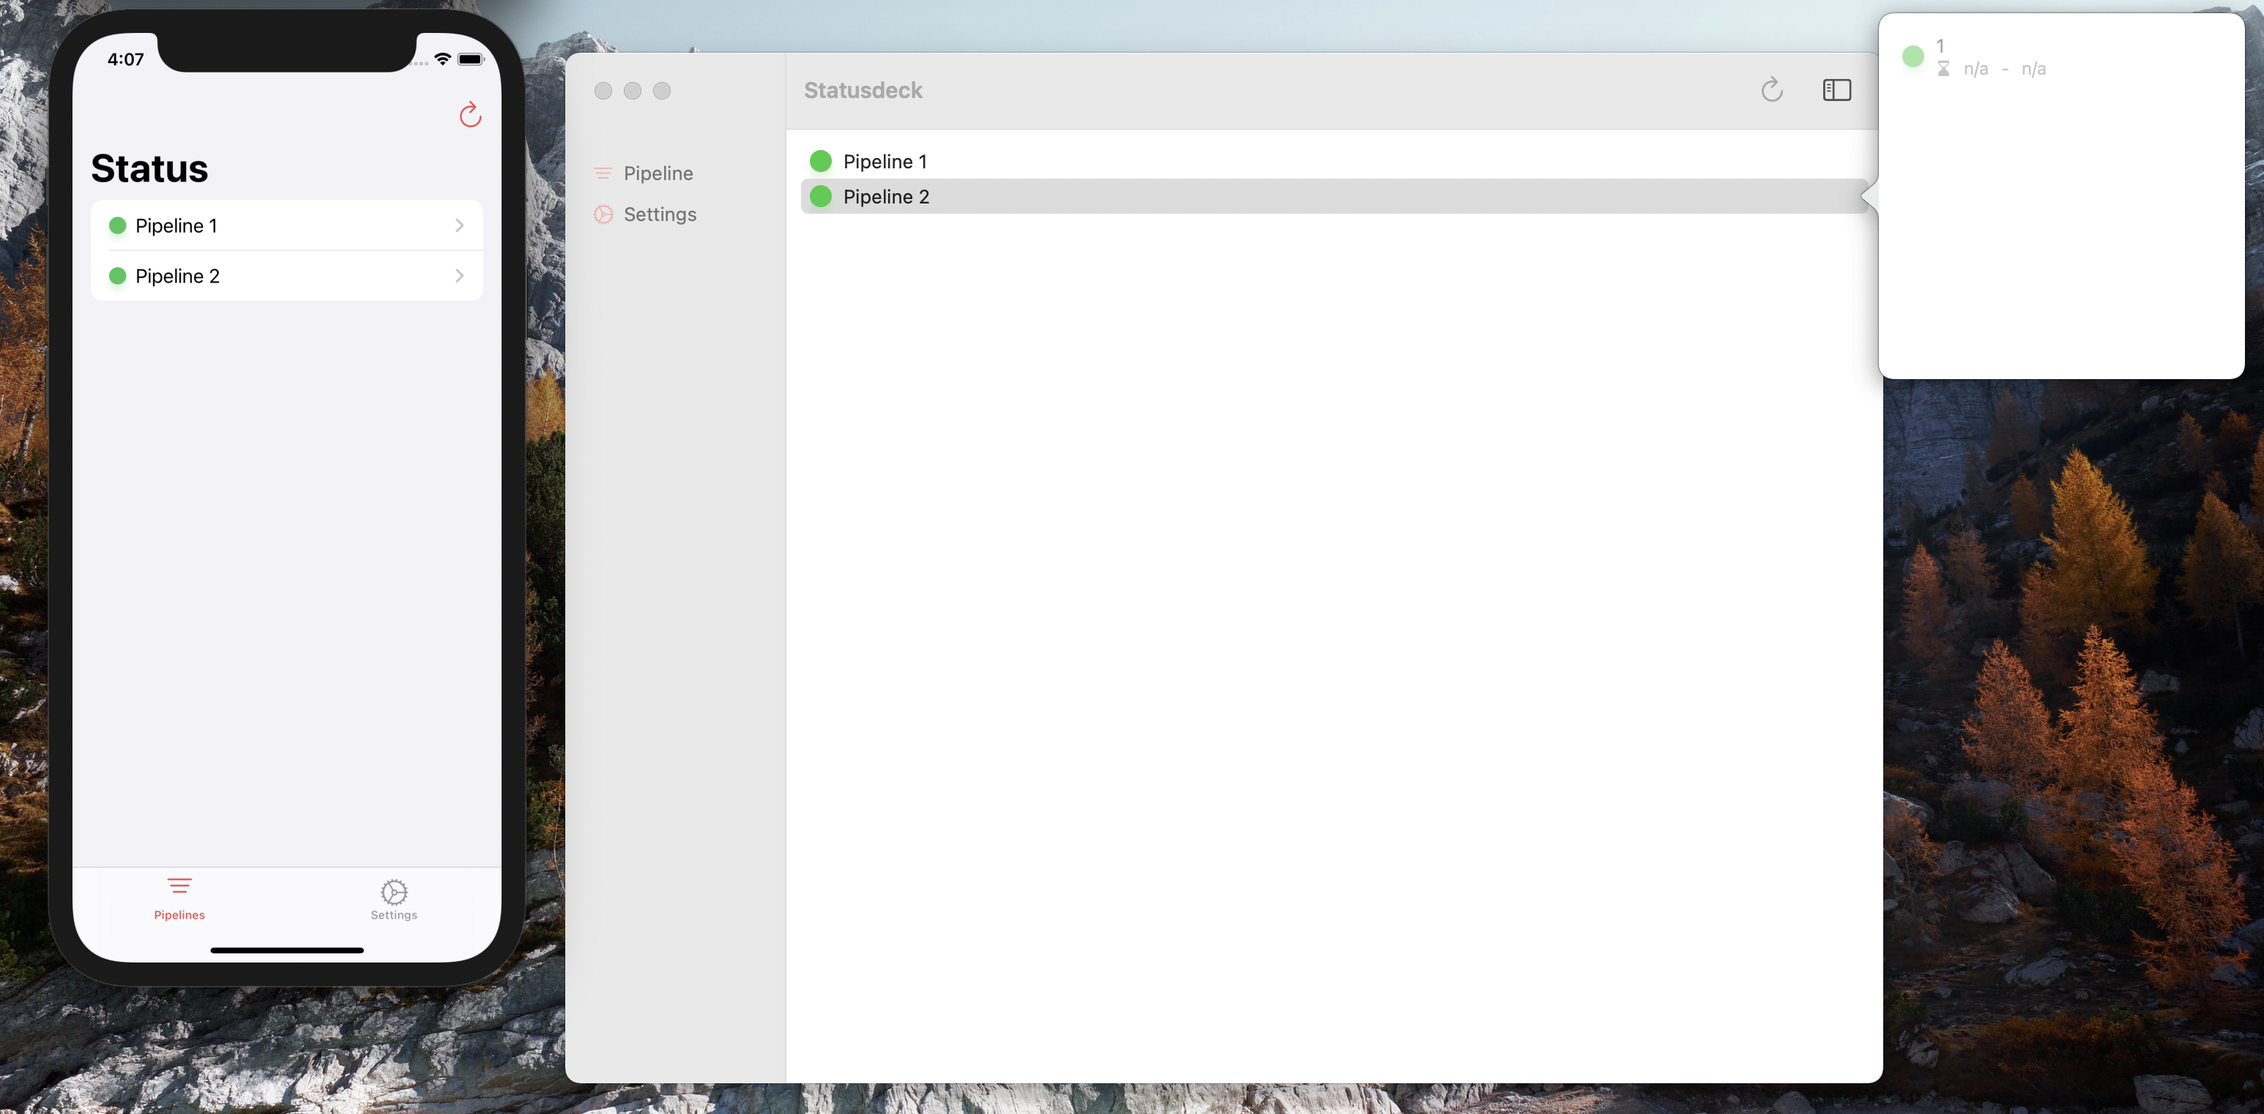
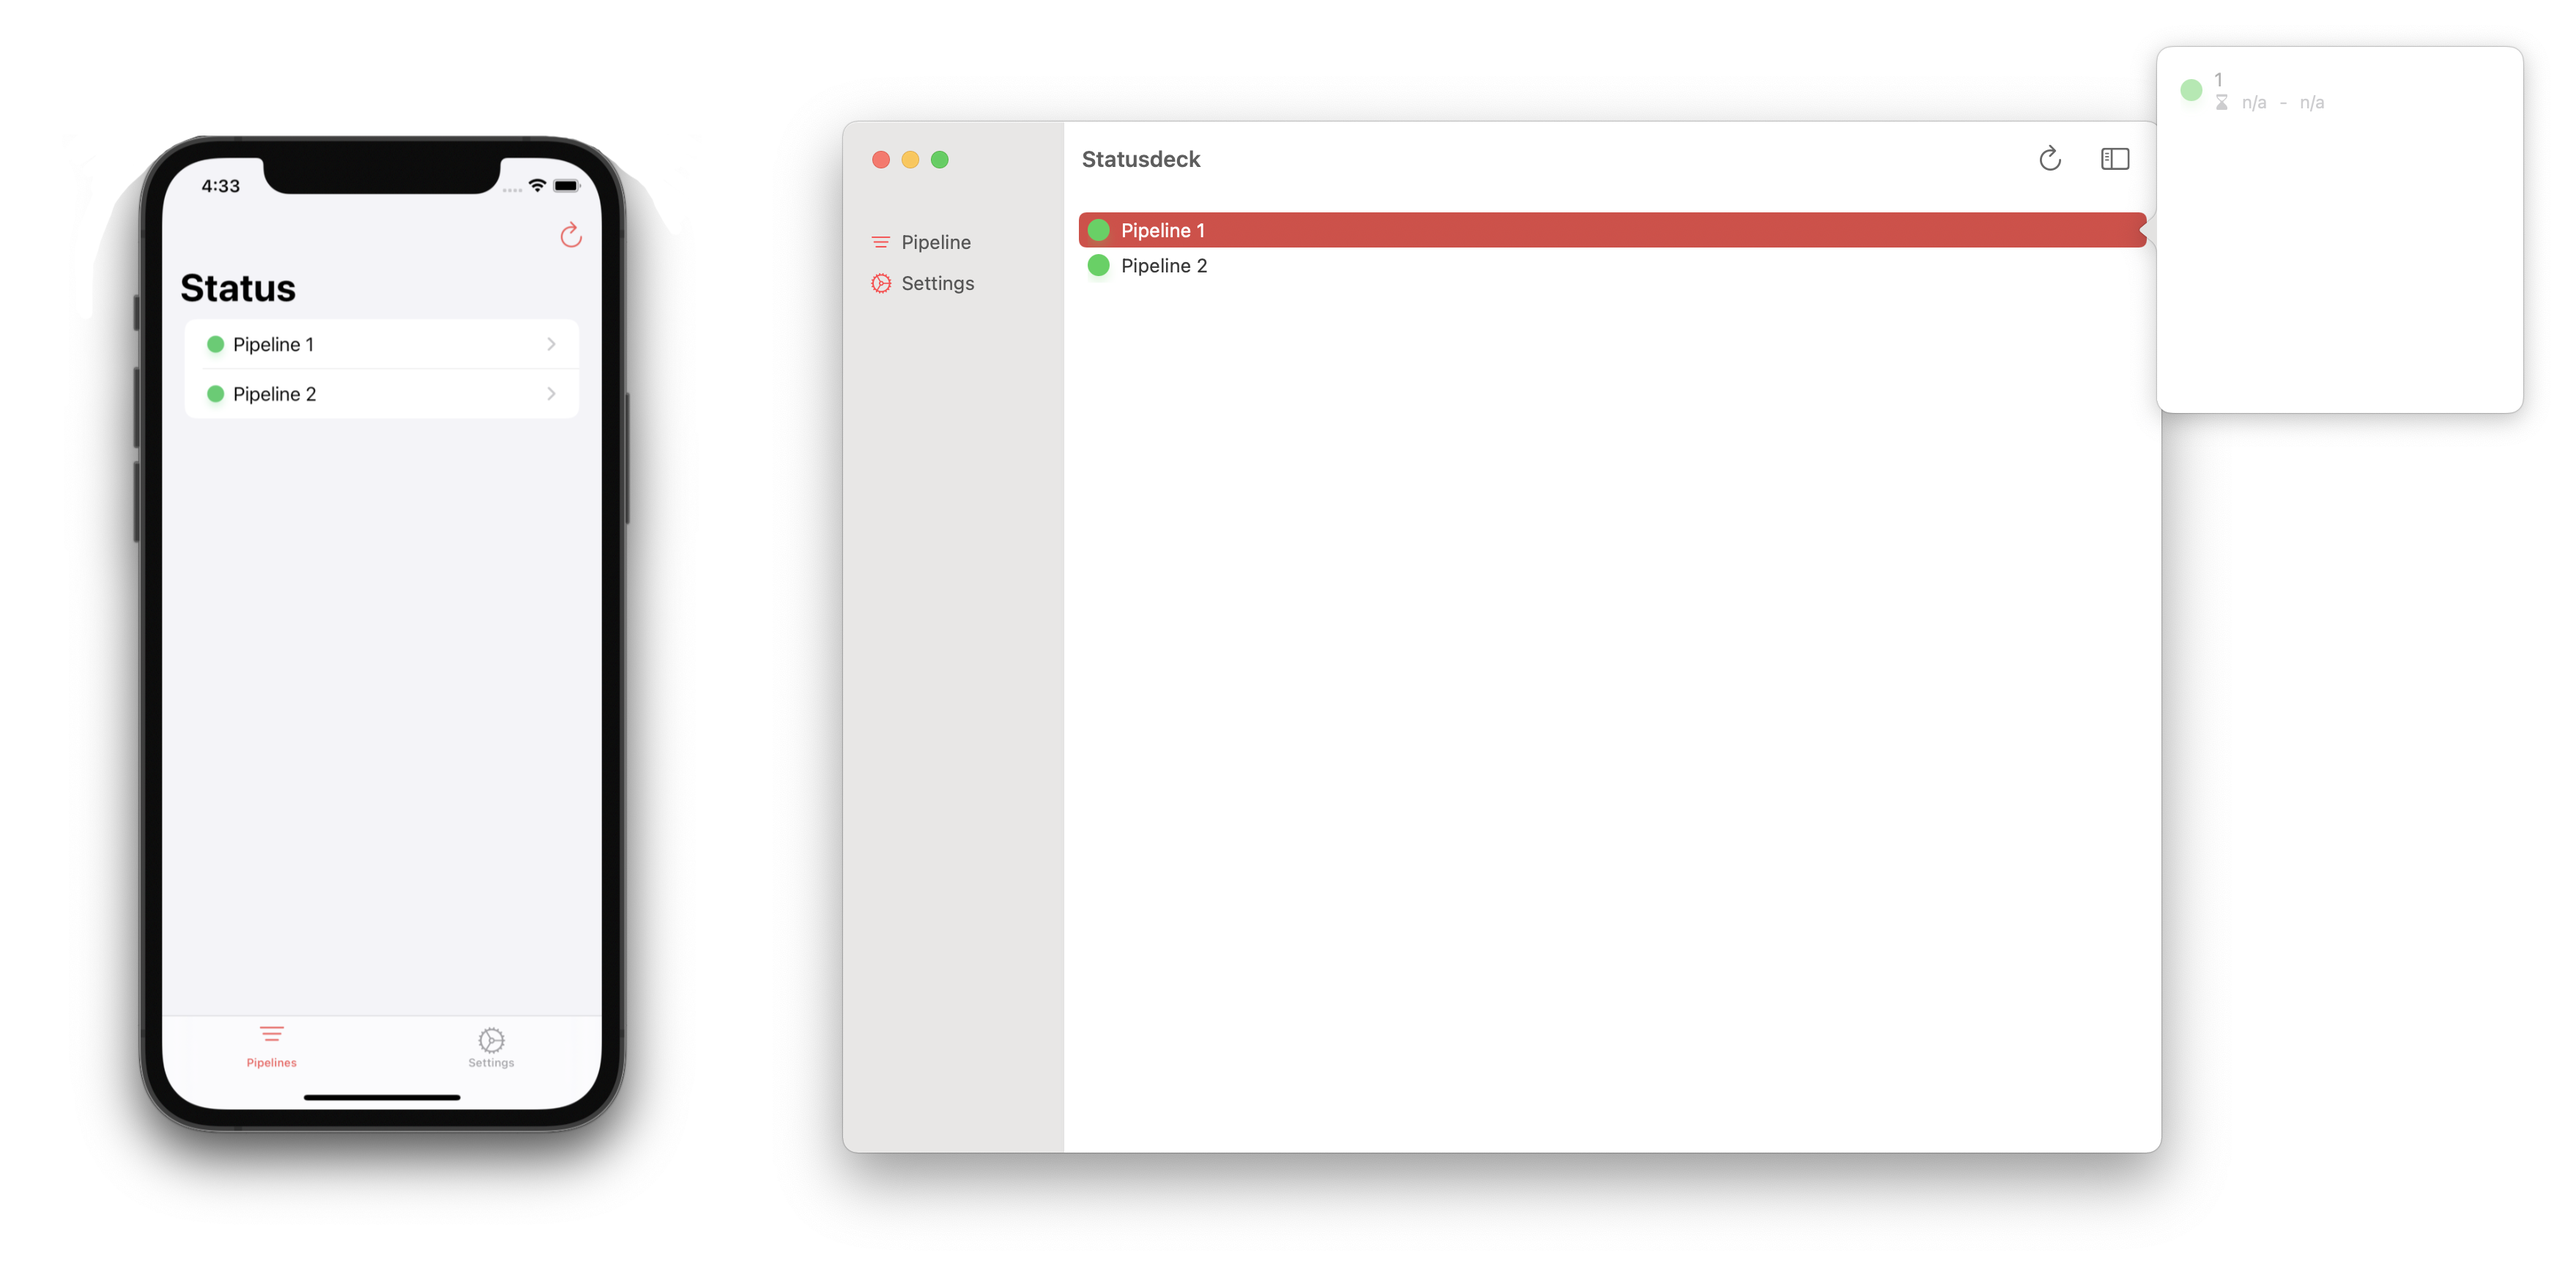
client: add app screenshots

diff --git a/README.md b/README.md
@@ -2,13 +2,15 @@
 
 Third exercise for the subject 20_SVE2UE at FH OÖ Campus Hagenberg. The exercise is based on the Apollo NodeJS and iOS implementation.
 
+![](.github/promo.gif)
+
 ## tl;dr
 
 *tbd*
 
 ## 🚩 Goal
 
-*tbd*
+Create a GraphQL API and a client for CI/CD pipelines. Enables querying pipelines, builds, steps, commits in a build. The required CI/CD pipeline data will only be simulated.
 
 ## 🏗 Architecture
 
@@ -21,3 +23,7 @@ Third exercise for the subject 20_SVE2UE at FH OÖ Campus Hagenberg. The exercis
 ## 🚀 Get started
 
 *tbd*
+
+## 📱 Showcase
+
+![](.github/apps.png)
